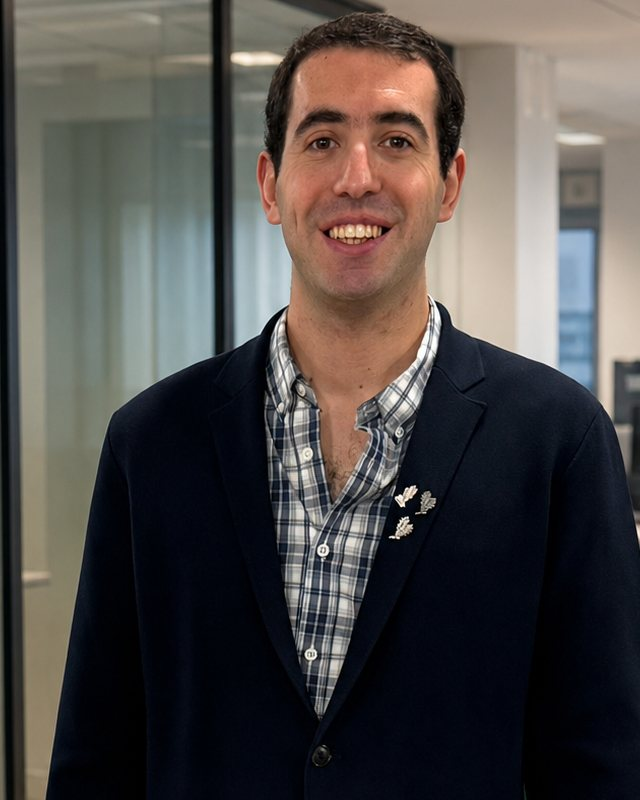
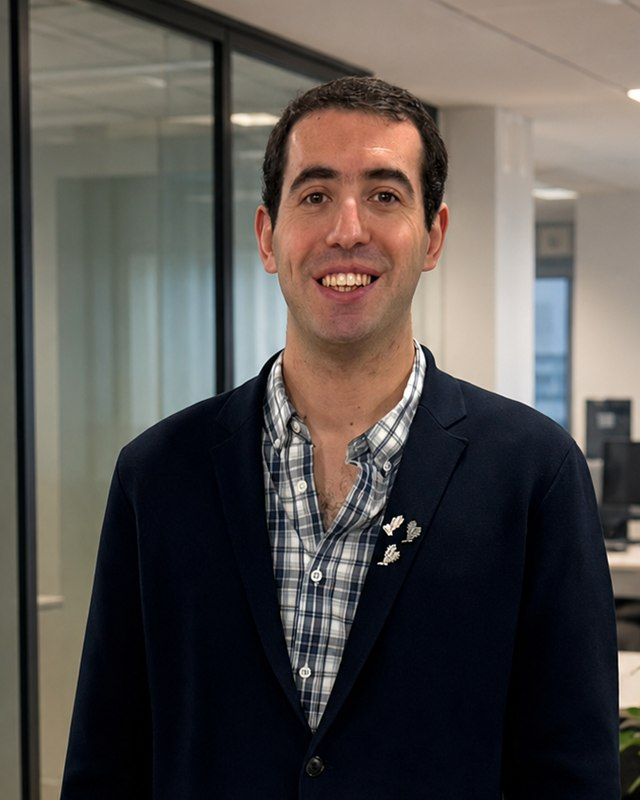
content: mas aire arriba de la cabeza en la foto de Vicente

diff --git a/index.html b/index.html
@@ -163,7 +163,7 @@
             <span class="card-link">Ver perfil →</span>
           </div>
           <div class="team-card" data-member="vicente" role="button" tabindex="0">
-            <div class="team-photo"><img src="img/equipo/vicente.jpg?v=2" alt="Vicente Constantino Pizzorno" onerror="this.style.display='none'" /><span class="team-initials">VP</span></div>
+            <div class="team-photo"><img src="img/equipo/vicente.jpg?v=3" alt="Vicente Constantino Pizzorno" onerror="this.style.display='none'" /><span class="team-initials">VP</span></div>
             <h4>Vicente Constantino Pizzorno</h4>
             <p>Ingeniero Mecánico y Electromecánico · MBA</p>
             <span class="card-link">Ver perfil →</span>